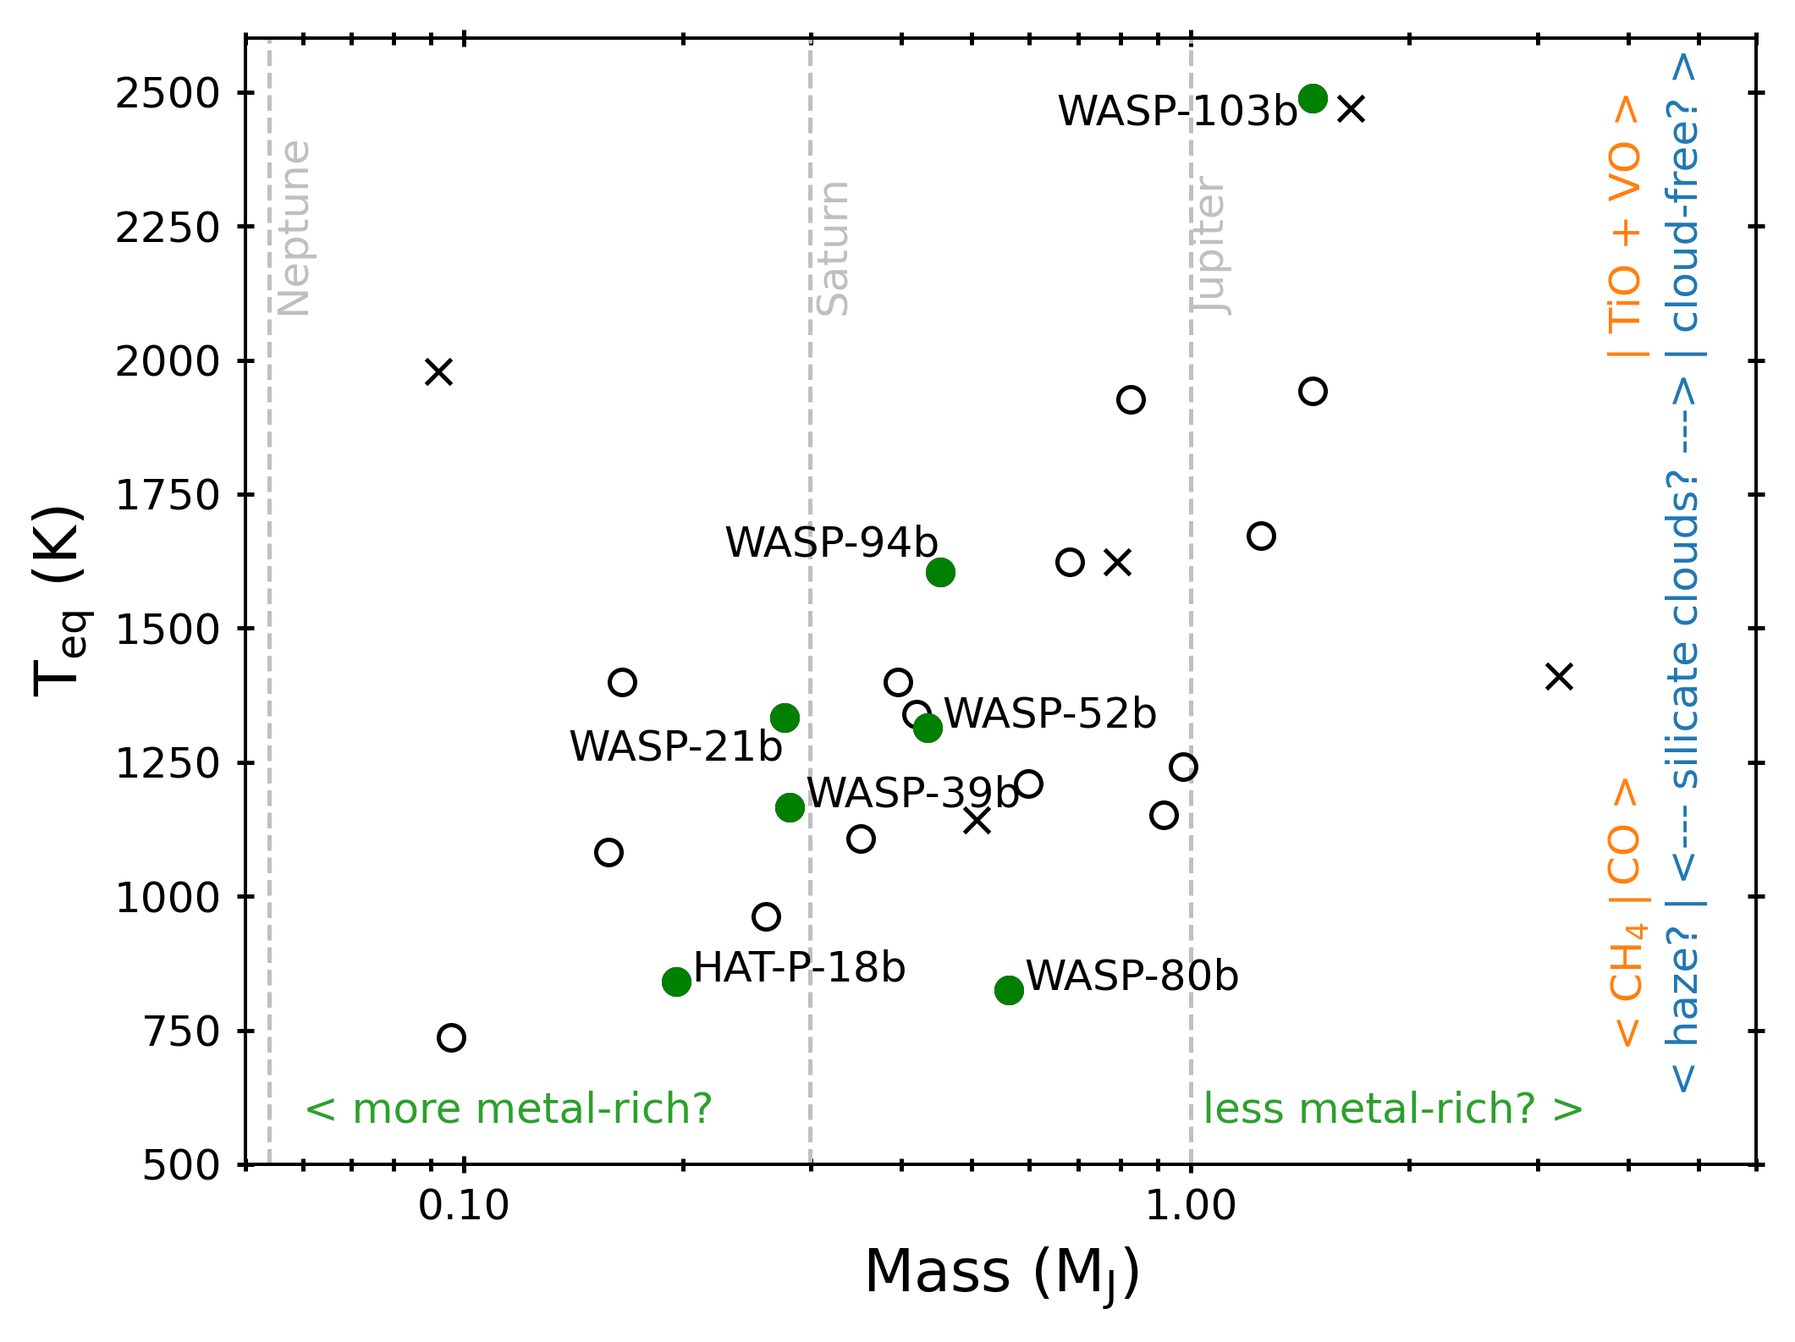
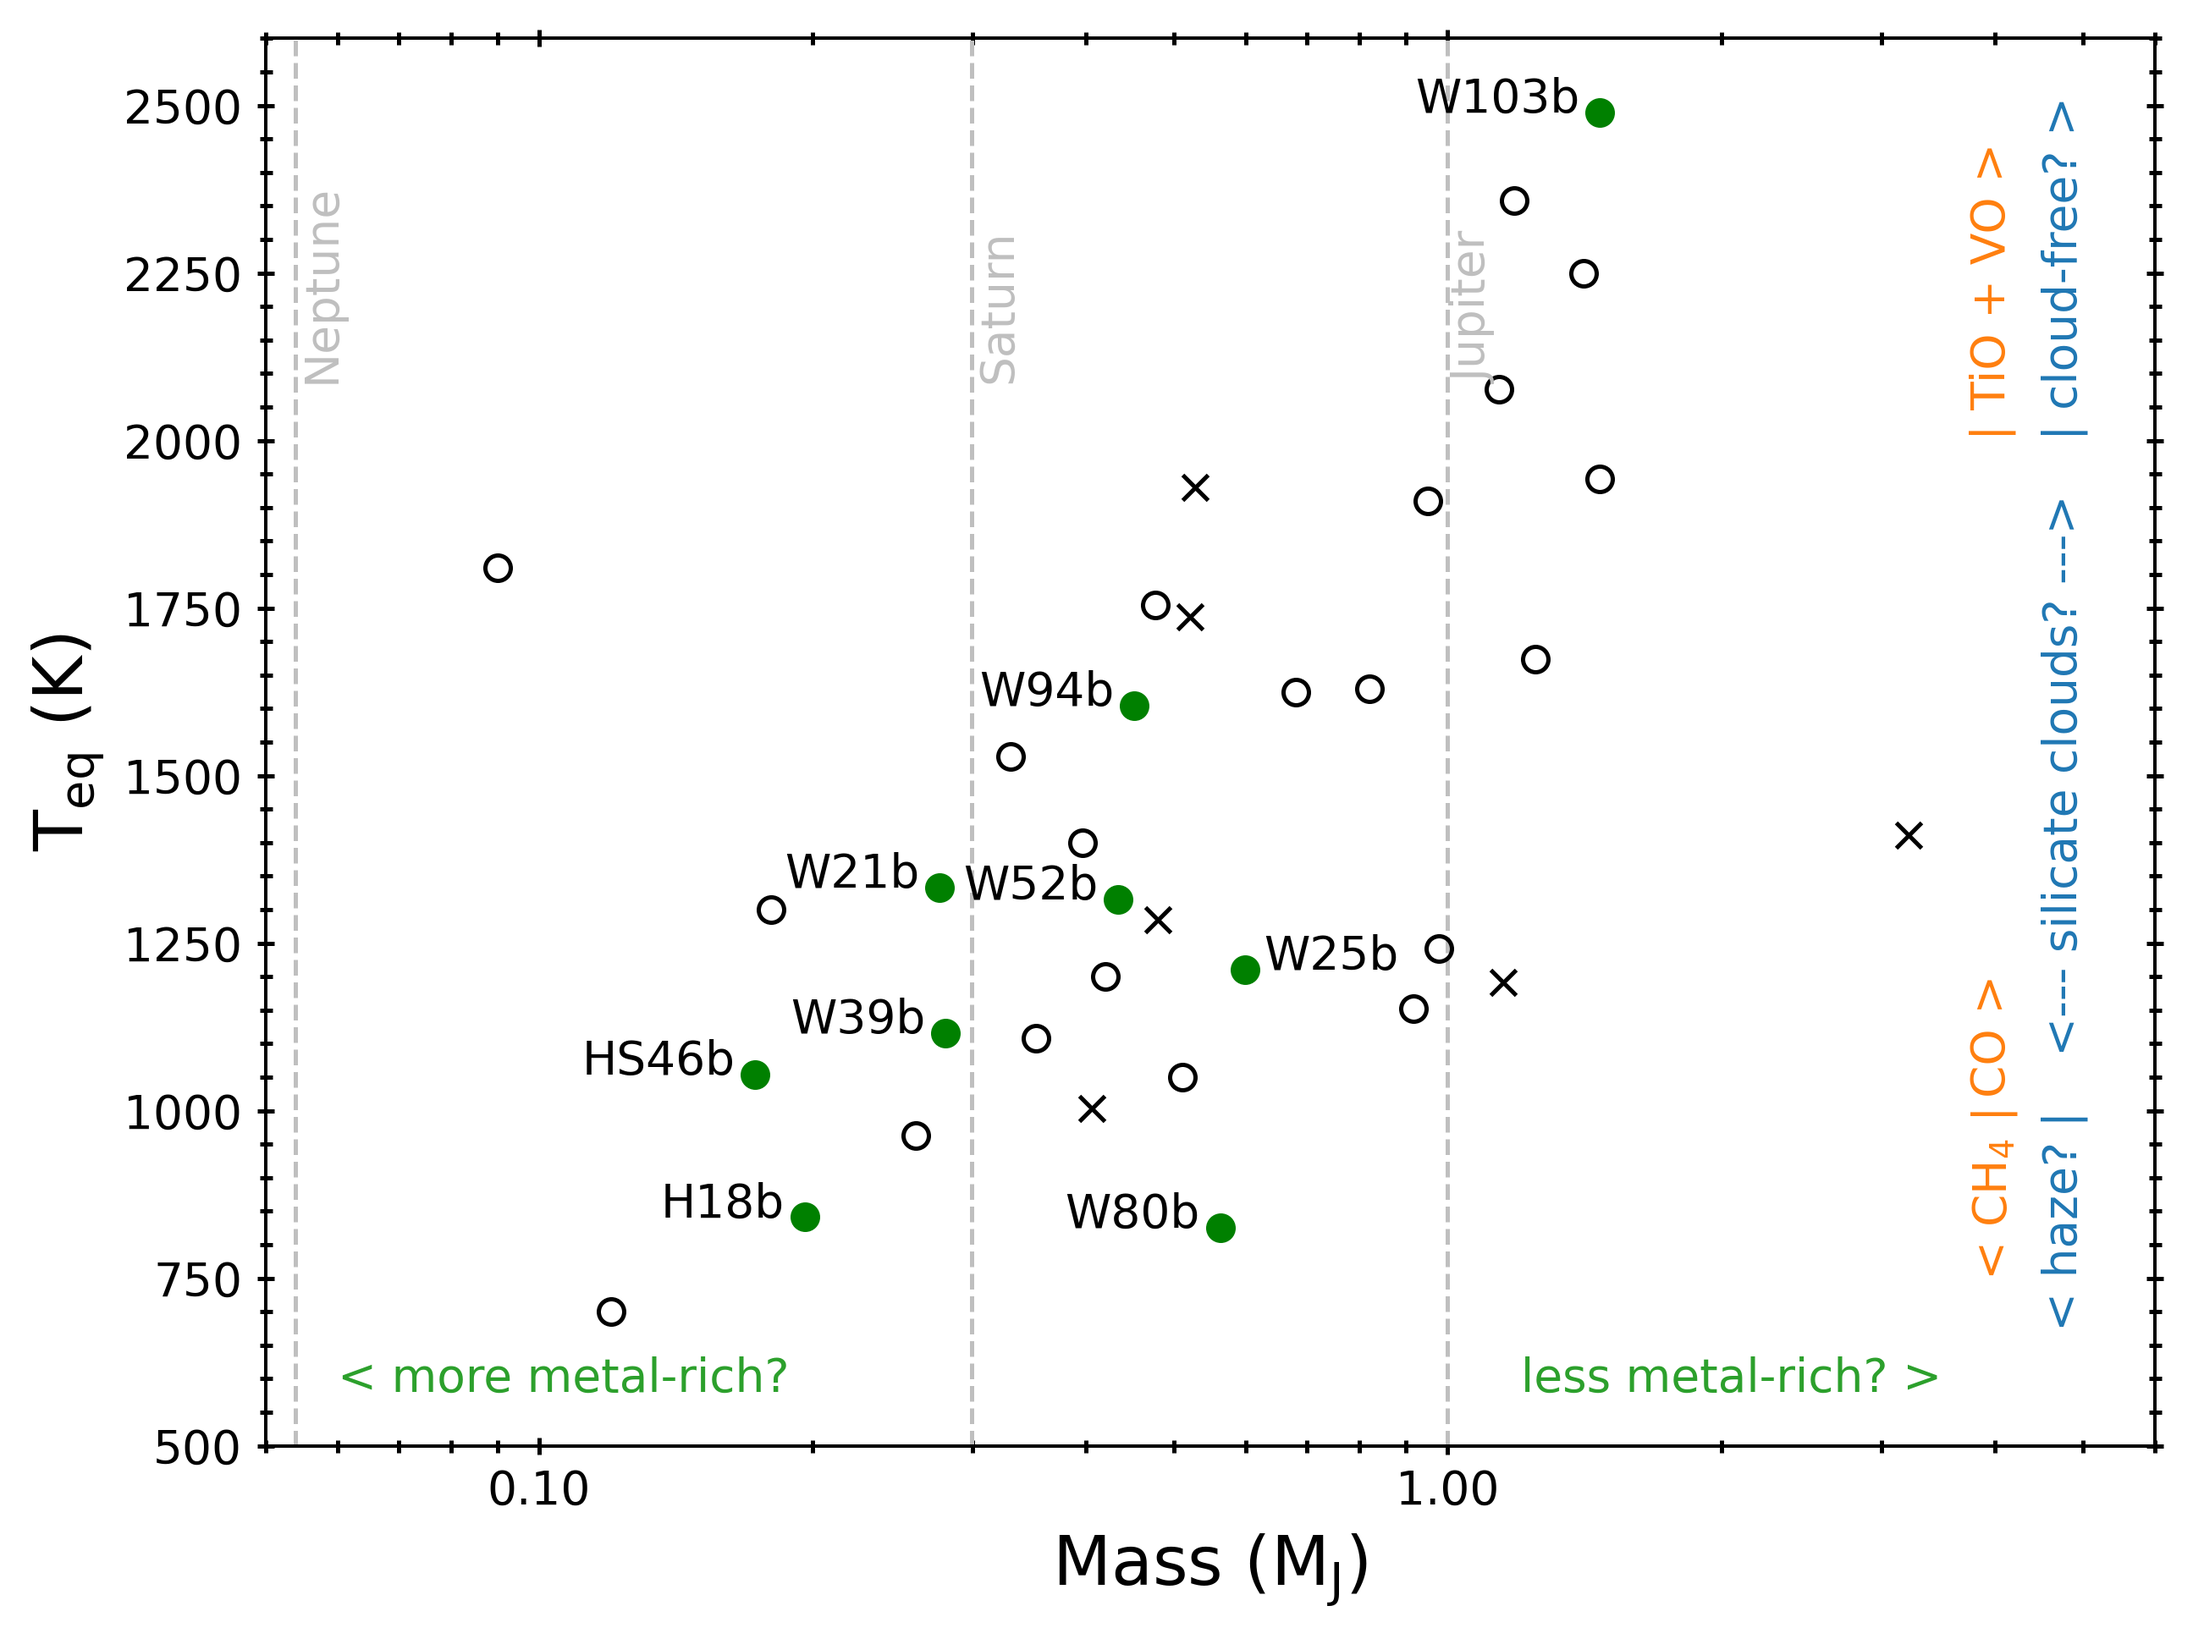
updated LRG-BEASTS plots with HATS-46b and made combined spectrum plot much nicer

diff --git a/LRG-BEASTS.md b/LRG-BEASTS.md
@@ -15,7 +15,7 @@ Ground-based studies are often limited by systematics and not photon noise, and 
 
 <center><img src="assets/images/complete_sample.png" width="60%" height="60%"></center>
 
-The figure above shows the LRG-BEASTS sample. These 26 planets cover a wide range of parameter space from ~0.1 to 3.2 Jupiter masses and ~730 to 2500K. This broad parameter space is allowing us to analyse how a planet's atmospheric properties vary as functions of these parameters. The planets in green are those that have been published.
+The figure above shows the LRG-BEASTS sample. These 35 planets cover a wide range of parameter space from ~0.1 to 3.2 Jupiter masses and ~700 to 2500K. This broad parameter space is allowing us to analyse how a planet's atmospheric properties vary as functions of these parameters. The green circles indicate published planets, open circles indicate observed planets and crosses indicate upcoming observations.
 
 In *temperature* space, we are probing the transition between CH<sub>4</sub> and CO at ~1000K. Below 1000K, the photolysis of CH<sub>4</sub> produces hydrocarbon hazes in exoplanet atmospheres (e.g., [Morley et al., 2015](https://ui.adsabs.harvard.edu/#abs/2015ApJ...815..110M/abstract)), that can mute molecular absorption and lead to strong optical scattering slopes. Indeed, we have seen evidence for hydrocarbon hazes in the atmospheres of HAT-P-18b and WASP-80b (see *THE RESULTS*).
 
@@ -31,9 +31,13 @@ In *mass* space, we are using our precise optical spectra to place tighter const
 
 The figure above shows the published results to date and demonstrates our ability to obtain a precision of around 1 atmospheric scale height with a 4-metre telescope. For all planets, the best fitting atmospheric forward model is plotted in red. The results are described in more detail below.
 
+**- HATS-46b** ([Ahrer et al., 2023](https://arxiv.org/pdf/2303.07381.pdf))
+
+The single transit observation of HATS-46b revealed a cloudy atmosphere with the flat transmission spectrum ruling out clear atmospheres at 3 sigma confidence. The most impressive aspect of this study was the remarkable precision achieved in the transmission spectrum for a star with Vmag = 13.6, with a median uncertainty in the transit depth of 357 ppm for ~200A-wide bins. This resulted from the observations being just 1.03X the photon noise, which demonstrates EFOSC2's fantastic capabilities to perform ground-based optical transmission spectroscopy. 
+
 **- WASP-94Ab** ([Ahrer et al., 2022](https://arxiv.org/pdf/2201.02212.pdf))
 
-In the most recent LRG-BEASTS study, Warwick graduate student Eva-Maria Ahrer led an analysis of the inflated hot Jupiter WASP-94Ab. In this study, Eva-Maria published the first transmission spectrum to use the EFOSC2 instrument on the 3.6m NTT telescope in La Silla, obtaining an exquisite precision of 128 ppm in 200A-wide bins from a single transit. Our precise transmission spectrum revealed significant evidence for sodium in the planet's atmosphere at 4.9 sigma confidence, in addition to a steeper-than-Rayleigh scattering slope. Our detection of pressure-broadened sodium suggests aerosols must be confined to relatively low altitudes. We also present archival HARPS data which reveals absorption in the stellar CaII H&K line cores, suggesting that WASP-94Ab may be losing its atmosphere, leading to cloud of gas that is enshrouding the host star.
+Warwick graduate student Eva-Maria Ahrer led an analysis of the inflated hot Jupiter WASP-94Ab. In this study, Eva-Maria published the first transmission spectrum to use the EFOSC2 instrument on the 3.6m NTT telescope in La Silla, obtaining an exquisite precision of 128 ppm in 200A-wide bins from a single transit. Our precise transmission spectrum revealed significant evidence for sodium in the planet's atmosphere at 4.9 sigma confidence, in addition to a steeper-than-Rayleigh scattering slope. Our detection of pressure-broadened sodium suggests aerosols must be confined to relatively low altitudes. We also present archival HARPS data which reveals absorption in the stellar CaII H&K line cores, suggesting that WASP-94Ab may be losing its atmosphere, leading to cloud of gas that is enshrouding the host star.
 
 **- WASP-103b** ([Kirk et al., 2021](https://arxiv.org/pdf/2105.00012.pdf))
 
